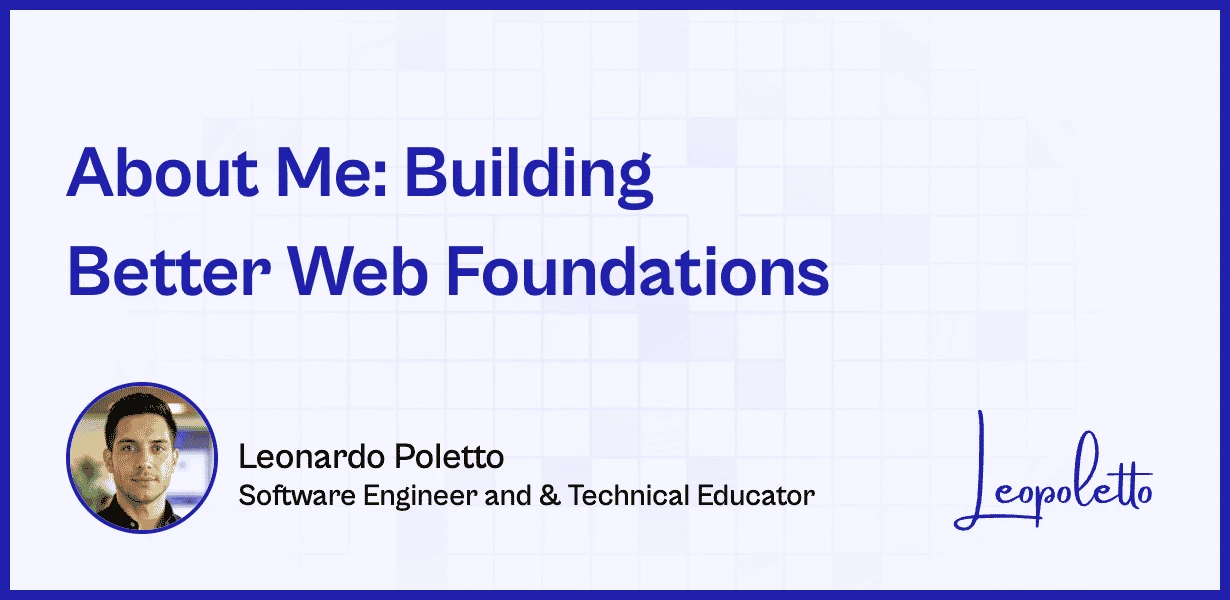
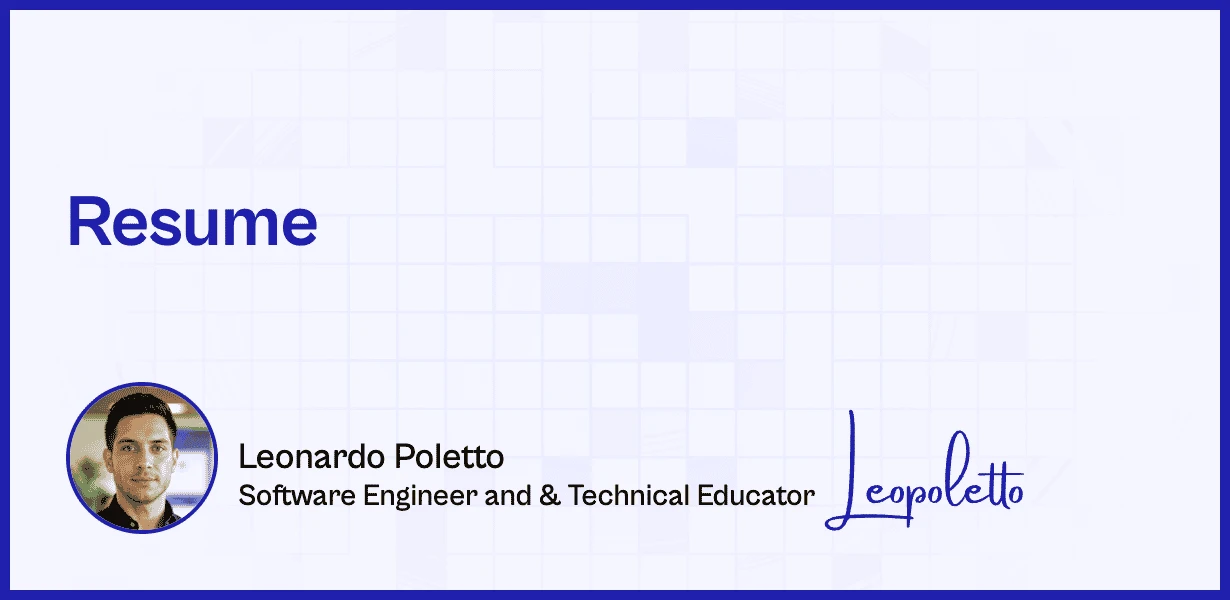
Add Resume to Blog

diff --git a/screenshot/runner.js b/screenshot/runner.js
@@ -4,9 +4,11 @@ import * as child_process from "node:child_process";
 import * as fs from "node:fs";
 
 const args = process.argv.slice(2);
-const postTitle = args[0] ?? null;
-const slug = args[1] ?? null;
-const fontSize = args[2] ?? null;
+
+const isProduction = args[0] ?? null;
+const postTitle = args[1] ?? null;
+const slug = args[2] ?? null;
+const fontSize = args[3] ?? null;
 
 (async () => {
     if (postTitle === null || slug === null) {
@@ -14,8 +16,7 @@ const fontSize = args[2] ?? null;
         return;
     }
 
-
-    const browser = await puppeteer.launch({
+    const setup = isProduction ? {} : {
         headless: 'new',
         executablePath: '/usr/bin/google-chrome', // ✅ Force system Chrome
         args: [
@@ -26,7 +27,9 @@ const fontSize = args[2] ?? null;
             '--disable-dev-shm-usage',
             '--disable-extensions',
         ],
-    });
+    };
+
+    const browser = await puppeteer.launch(setup);
 
     const page = await browser.newPage();
 
@@ -39,7 +42,7 @@ const fontSize = args[2] ?? null;
     await page.$eval('#title', (element, postTitle, fontSize) => {
         element.innerText = postTitle
 
-        if(fontSize !== null){
+        if (fontSize !== null) {
             element.style.fontSize = `${fontSize}px`;
             element.style.lightHeight = fontSize > 100 ? 0 : '100%';
         }
@@ -59,7 +62,7 @@ const fontSize = args[2] ?? null;
     }
 
     await browser.close();
-})(postTitle, slug, fontSize);
+})(isProduction, postTitle, slug, fontSize);
 
 
 

diff --git a/source/_assets/css/main.css b/source/_assets/css/main.css
@@ -192,7 +192,13 @@
             @apply max-w-4xl w-full mx-auto mb-5 inline-block;
         }
 
-        p {
+        li {
+            > code {
+                @apply text-base text-brand-primary-100 break-words bg-brand-secondary-500 py-0.5 px-1 rounded;
+            }
+        }
+
+        p{
             @apply mb-2 text-gray-800  text-[17px]  leading-loose pt-5 mt-2;
 
             & > code {

diff --git a/listeners/GenerateOpenGraphImage.php b/listeners/GenerateOpenGraphImage.php
@@ -10,21 +10,19 @@ class GenerateOpenGraphImage
 {
     public function handle(Jigsaw $jigsaw)
     {
-        if($jigsaw->getEnvironment() !== 'production'){
-            return false;
-        }
-        $this->run('Blog', 'home', $jigsaw->getSourcePath(), 150);
-        $this->run('Open Lab', 'open-lab', $jigsaw->getSourcePath(), 150);
+        $isProduction = $jigsaw->getEnvironment() === 'production' ? 1  : 0;
+        $this->run($isProduction, 'Blog', 'home', $jigsaw->getSourcePath(), 150);
+        $this->run($isProduction, 'Open Lab', 'open-lab', $jigsaw->getSourcePath(), 150);
 
-        collect($jigsaw->getCollection('posts')->each(function ($page) use ($jigsaw) {
+        collect($jigsaw->getCollection('posts')->each(function ($page) use ($jigsaw, $isProduction) {
             if($page->og_image){
                 $fileInfo = pathinfo($page->og_image);
-                $this->run($page->title, $fileInfo['filename'], $jigsaw->getSourcePath());
+                $this->run($isProduction, $page->title, $fileInfo['filename'], $jigsaw->getSourcePath());
             }
         })->values());
     }
 
-    private function run($title, $filename, $sourcePath, $fontSize = null)
+    private function run($production, $title, $filename, $sourcePath, $fontSize = null)
     {
         $command = [
             new ExecutableFinder()->find('node', 'node', [
@@ -32,6 +30,7 @@ class GenerateOpenGraphImage
                 '/opt/homebrew/bin',
             ]),
             'runner.js',
+            $production,
             $title,
             $filename,
             $fontSize

diff --git a/source/_layouts/main.blade.php b/source/_layouts/main.blade.php
@@ -101,6 +101,13 @@
                                 </x-partials.menu-link>
                             </li>
                             <li>
+                                <x-partials.menu-link
+                                        href="{{ str($page->baseUrl)->append('blog/resume')  }}"
+                                        title="Leonardo Poletto's Resume"
+                                >Resume
+                                </x-partials.menu-link>
+                            </li>
+                            <li>
                                 <x-partials.menu-link href="{{ str($page->baseUrl)->append('categories/open-lab')  }}"
                                                       title="Learn more about tools">Open Lab
                                 </x-partials.menu-link>

diff --git a/source/_posts/resume.md b/source/_posts/resume.md
@@ -1,0 +1,225 @@
+---
+extends: _layouts.post
+section: content
+title: "Resume"
+date: 2025-08-22
+description: "Senior Full-Stack Engineer | Node.js, Laravel, Vue | Performance & Automation"
+featured: false
+published: true
+type: page
+categories: ["open-lab"]
+og_title: "Resume"
+og_type: article
+og_description: "Senior Full-Stack Engineer | Node.js, Laravel, Vue | Performance & Automation"
+og_image: "assets/images/og/about-me-building-better-web-foundations.webp"
+x_title: "Resume"
+x_description: "Senior Full-Stack Engineer | Node.js, Laravel, Vue | Performance & Automation"
+x_image: "assets/images/og/about-me-building-better-web-foundations.webp"
+---
+
+
+
+São Paulo, Brazil  
+[hello@leopoletto.com](mailto:hello@leopoletto.com) | [LinkedIn](https://www.linkedin.com/in/leopoletto) |  [Twitter](https://twitter.com/leopoletto)  | [GitHub](https://github.com/leopoletto)
+
+## Summary
+
+I’m a Senior Full-Stack Engineer who builds production-ready applications and automation tools across Node.js and PHP ecosystems, combining backend services, browser automation, and system-level scripting.
+
+Over the last several years, I’ve:
+
+- Delivered **full-stack web apps** with Laravel, Vue, and modern JS pipelines.
+- Built **automation tooling** with `Node.js`, `Puppeteer`, and `Commander.js` — everything from data extraction to site performance auditing.
+- Engineered **performance workflows** that measure Core Web Vitals, enforce `CSP/SRI` security, and optimize web fonts.
+- Wrapped **Google's production** `C++` `robots.txt` parser in `Node.js` for high-accuracy crawl compliance.
+- Created **Chrome extensions** for privacy and request monitoring.
+
+Beyond shipping code, I’ve launched **Wizard Compass**, an educational initiative that turns Chrome Lighthouse audits into interactive lessons. My goal is to make complex performance, accessibility, and security concepts **understandable and actionable** for developers of all levels.
+
+I thrive in roles where I can solve hard technical problems, mentor others, and deliver measurable improvements to reliability, speed, and security.
+
+**Tech Stack:** `Node.js`, `Puppeteer`, `Commander.js`, `p-limit`, `Laravel`, `Vue.js`, `MySQL`, `Redis`, `Docker`, `GitHub Actions`, `Bash/Unix (jq, yq)`, `Chrome Extension APIs`, `Chrome Lighthouse`.
+  
+---  
+
+## Projects
+
+
+### Font Lint - Font Metrics & Licensing Analyzer
+
+Jul 2025 – Present | Associated with Wizard Compass Initiative
+
+Font Lint is a developer tool and service that brings transparency and optimization to web typography.
+
+**Advanced Font Metrics & Subsetting**
+
+- Extracted `x-height`, `cap height`, `avg. character width`, `ascender/descender` across ~1,800 Google Fonts. 
+- Generated subset metrics per Unicode range (Latin, Cyrillic, Greek, Vietnamese, etc.) to quantify layout stability and load cost. 
+- Designed a comparison system for fonts and fallbacks at a sub-metric level to reduce CLS (Cumulative Layout Shift).
+
+**Data Ingestion & Classification**
+
+- Built ingestion pipeline in `Laravel` + `Python` to parse Google Fonts metadata, `TTF/WOFF2` tables, and licenses.
+- Classified fonts (emoji, symbol, barcode, textual) to skip unnecessary submetric computation.
+- Maintained relational DB (families, variants, subsets, metrics, licensing, categories, tags).
+
+**Licensing & Compliance**
+
+- Audited declared Google Fonts licenses vs. actual font-level licenses (`Apache-2.0`, `SIL OFL-1.1`, `GPL`).
+- Extracted reserved font names from font metadata to ensure compliant redistribution and subsetting.
+- Generated compliance outputs (SPDX IDs, license notices, attribution bundles).
+
+**Developer-Facing Tools**
+
+- Generated device-aware fallback stacks with size-adjust, ascent-override, and descent-override.
+- Experimented with Unicode coverage “Can I use this glyph?” service mapping fonts to supported `codepoints`.
+- Built foundation for a “`Tailwind for Fonts`” optimizer: pruning unused glyphs, subsetting fonts by frequency, and emitting optimized CSS.
+
+**Skills:** `Web Typography` · `Laravel` · `Python` · `Node.js` · `Bash`
+  
+---  
+
+### Wizard Compass — Interactive Lighthouse Education Platform
+
+
+May 2025 – Present | Wizard Compass Initiative
+
+Wizard Compass is an educational platform that transforms `Chrome Lighthouse` audits into guided lessons, turning raw scores into actionable knowledge.
+
+**Core Contributions**
+
+- Designed and launched an interactive learning platform where Lighthouse reports become step-by-step lessons.
+- Built teaching modules combining code examples, real audits, and clear explanations.
+- Created a foundation for a growing library of micro-courses and playgrounds, enabling hands-on learning.
+- Prioritized accessibility, security, and open data to ensure lessons are practical and trustworthy.
+
+**Mission**
+
+Make web performance and accessibility knowledge accessible to everyone — from students to senior engineers — by combining real-world tools with clear, human-first education.
+
+**Skills:** `Teaching` · `Lighthouse` · `Screencasting` · `Chrome DevTools` · `Web Performance`
+  
+---  
+
+## Experience
+
+### Wizard Compass Initiative — Founder & Engineer (Independent Initiative)
+
+Jan 2025 – Present | Brazil
+
+- Designed and shipped production-ready tools and educational resources focused on web performance, security, and automation.
+- Built `Node.js` CLI tools (`Commander.js`, `p-limit`) with Unix utilities (`jq`, `yq`).
+- Developed Puppeteer scripts for site data extraction, `CSP/SRI` checks, and font loading audits.
+- Integrated Lighthouse programmatic API into automated pipelines.
+- Created a Chrome extension for real-time privacy monitoring.
+- Engineered a robots.txt parser workflow with `Node.js` + `Google’s C++` parser.
+
+---  
+
+### StudentCrowd — Software Engineer
+
+Jan 2024 – Jan 2025 | London, UK
+
+- Improved platform performance (higher Lighthouse scores, Q1 OKR achieved).
+- Built a reliable **email verification workflow**, boosting registrations.
+- Redesigned **user registration flow** and developed full account area.
+- Delivered **two-way data sync** between platform and email provider.
+- Contributed to advanced filters using **Elasticsearch** and **BigQuery**.
+
+---  
+
+### AE Studio— JavaScript Developer
+
+Apr 2022 – Dec 2022 | California, USA (Remote)
+
+- Contributed to **Token Talkers**, a Web3 skunkworks project.
+- Built full-stack features using **NullStack** (unified server/client logic).
+- Architected **MongoDB connections**, Web3 wallet integration, and logging.
+- Built a **dynamic scheduling system** powered by `Calendly`.
+- Delivered **mobile-first UI** with Tailwind CSS.
+- Contributed to gamified features during an internal hackathon.
+
+---  
+
+### 99Codes — Software Engineer & Cofounder
+
+Aug 2014 – May 2022 | Brazil
+
+- Led custom full-stack projects across education, legal tech, communications, and healthcare.
+- Built multi-tenant SaaS platforms and responsive sites using **`Laravel`, `Vue.js`, `MySQL` `Tailwind CS`, `WordPress`**.
+- Deployed on **scalable infrastructures** like `Laravel Forge`.
+
+---  
+
+### Simple Education — Software Engineer
+
+Mar 2019 – May 2020 | Brazil
+
+- Drove evolution of a **full educational ecosystem** (LMS, CRM, e-commerce, apps).
+- Led technical coordination of interconnected systems and vendor management.
+- Built integrations for **media conversion, subtitling, TTS, speech recognition, and AWS services**.
+- Supported thousands of students across Brazil.
+
+---  
+
+##  Early Career (2010 – 2014)
+
+
+### ED Comunicação — Full-Stack Developer
+
+
+Jun 2012 – May 2014 | São Paulo, Brazil
+
+- Converted agency PDF designs into **responsive, pixel-perfect HTML/CSS** integrated with CakePHP and WordPress.
+- Acted as the **technical voice in client meetings**, supporting the agency owner.
+- Delivered projects for clients including **NEC, Mitsubishi, BMW, Kawasaki, BIG Festival, and Suzano Papel e Celulose** (one of the world’s largest pulp manufacturers).
+
+
+### Jhma Studios — Full-Stack Developer
+
+Jul 2011 – Jun 2012 | Brazil
+
+- Rebuilt the **full product catalog for ACE Revestimentos**, delivering 10+ responsive templates.
+- Developed a **custom PHP OOP admin panel** before mainstream frameworks.
+- Implemented **SEO-preserving redirects** via an XML-driven system, ensuring clean URLs while keeping Google rankings.
+- Result: improved indexed product count and search visibility.
+
+### AG5 Desenvolvimento de Sistemas — Full-Stack Developer
+
+Jan 2010 – Jun 2010 | São Paulo, Brazil
+
+- Built a **registration system** for the Annual Franchise Convention, featuring national star Rodrigo Faro.
+- Rebuilt the company website into a **responsive, faster layout** (post-`Dreamweaver`).
+- Developed an **incentive sales portal** with weekly updated rankings and performance news, gamifying competition across franchisees.
+- First role transitioning from static websites to **dynamic web applications**, applying early `PHP/OOP` practices.
+
+---  
+
+## Education
+
+### Impacta Tecnologia
+
+Technologist in System Analysis, IT (2010 – 2014)
+
+Completed the majority of coursework in Systems Analysis (2010–2014), specializing in IT fundamentals, databases, and programming. Did not pursue a diploma but applied knowledge directly in professional development roles
+
+### ETEC - Escola Técnica Estadual de São Paulo
+
+Technical Program in Computer Science (2007–2008)
+
+- Studied `algorithms`, `Pascal`, `Delphi`, and `Visual Basic` with daily coursework.
+- Participated in the **Brazilian Computer Science Olympiad**.
+- Built a strong foundation in structured programming and problem-solving.
+
+  
+---  
+
+
+Skills: **IT fundamentals** · **Databases** · **Pascal** · **Delphi** · **VB Studio** · **Algorithms** · **Data Structures**
+  
+---  
+
+## Skills
+
+- **Top Skills:** PHP, Laravel, Node.js, Vue.js, Tailwind CSS, Chrome API, Google Cloud, Web Typography, Python, Bash
+- **Languages:** Portuguese (Native), English (Full Professional)
